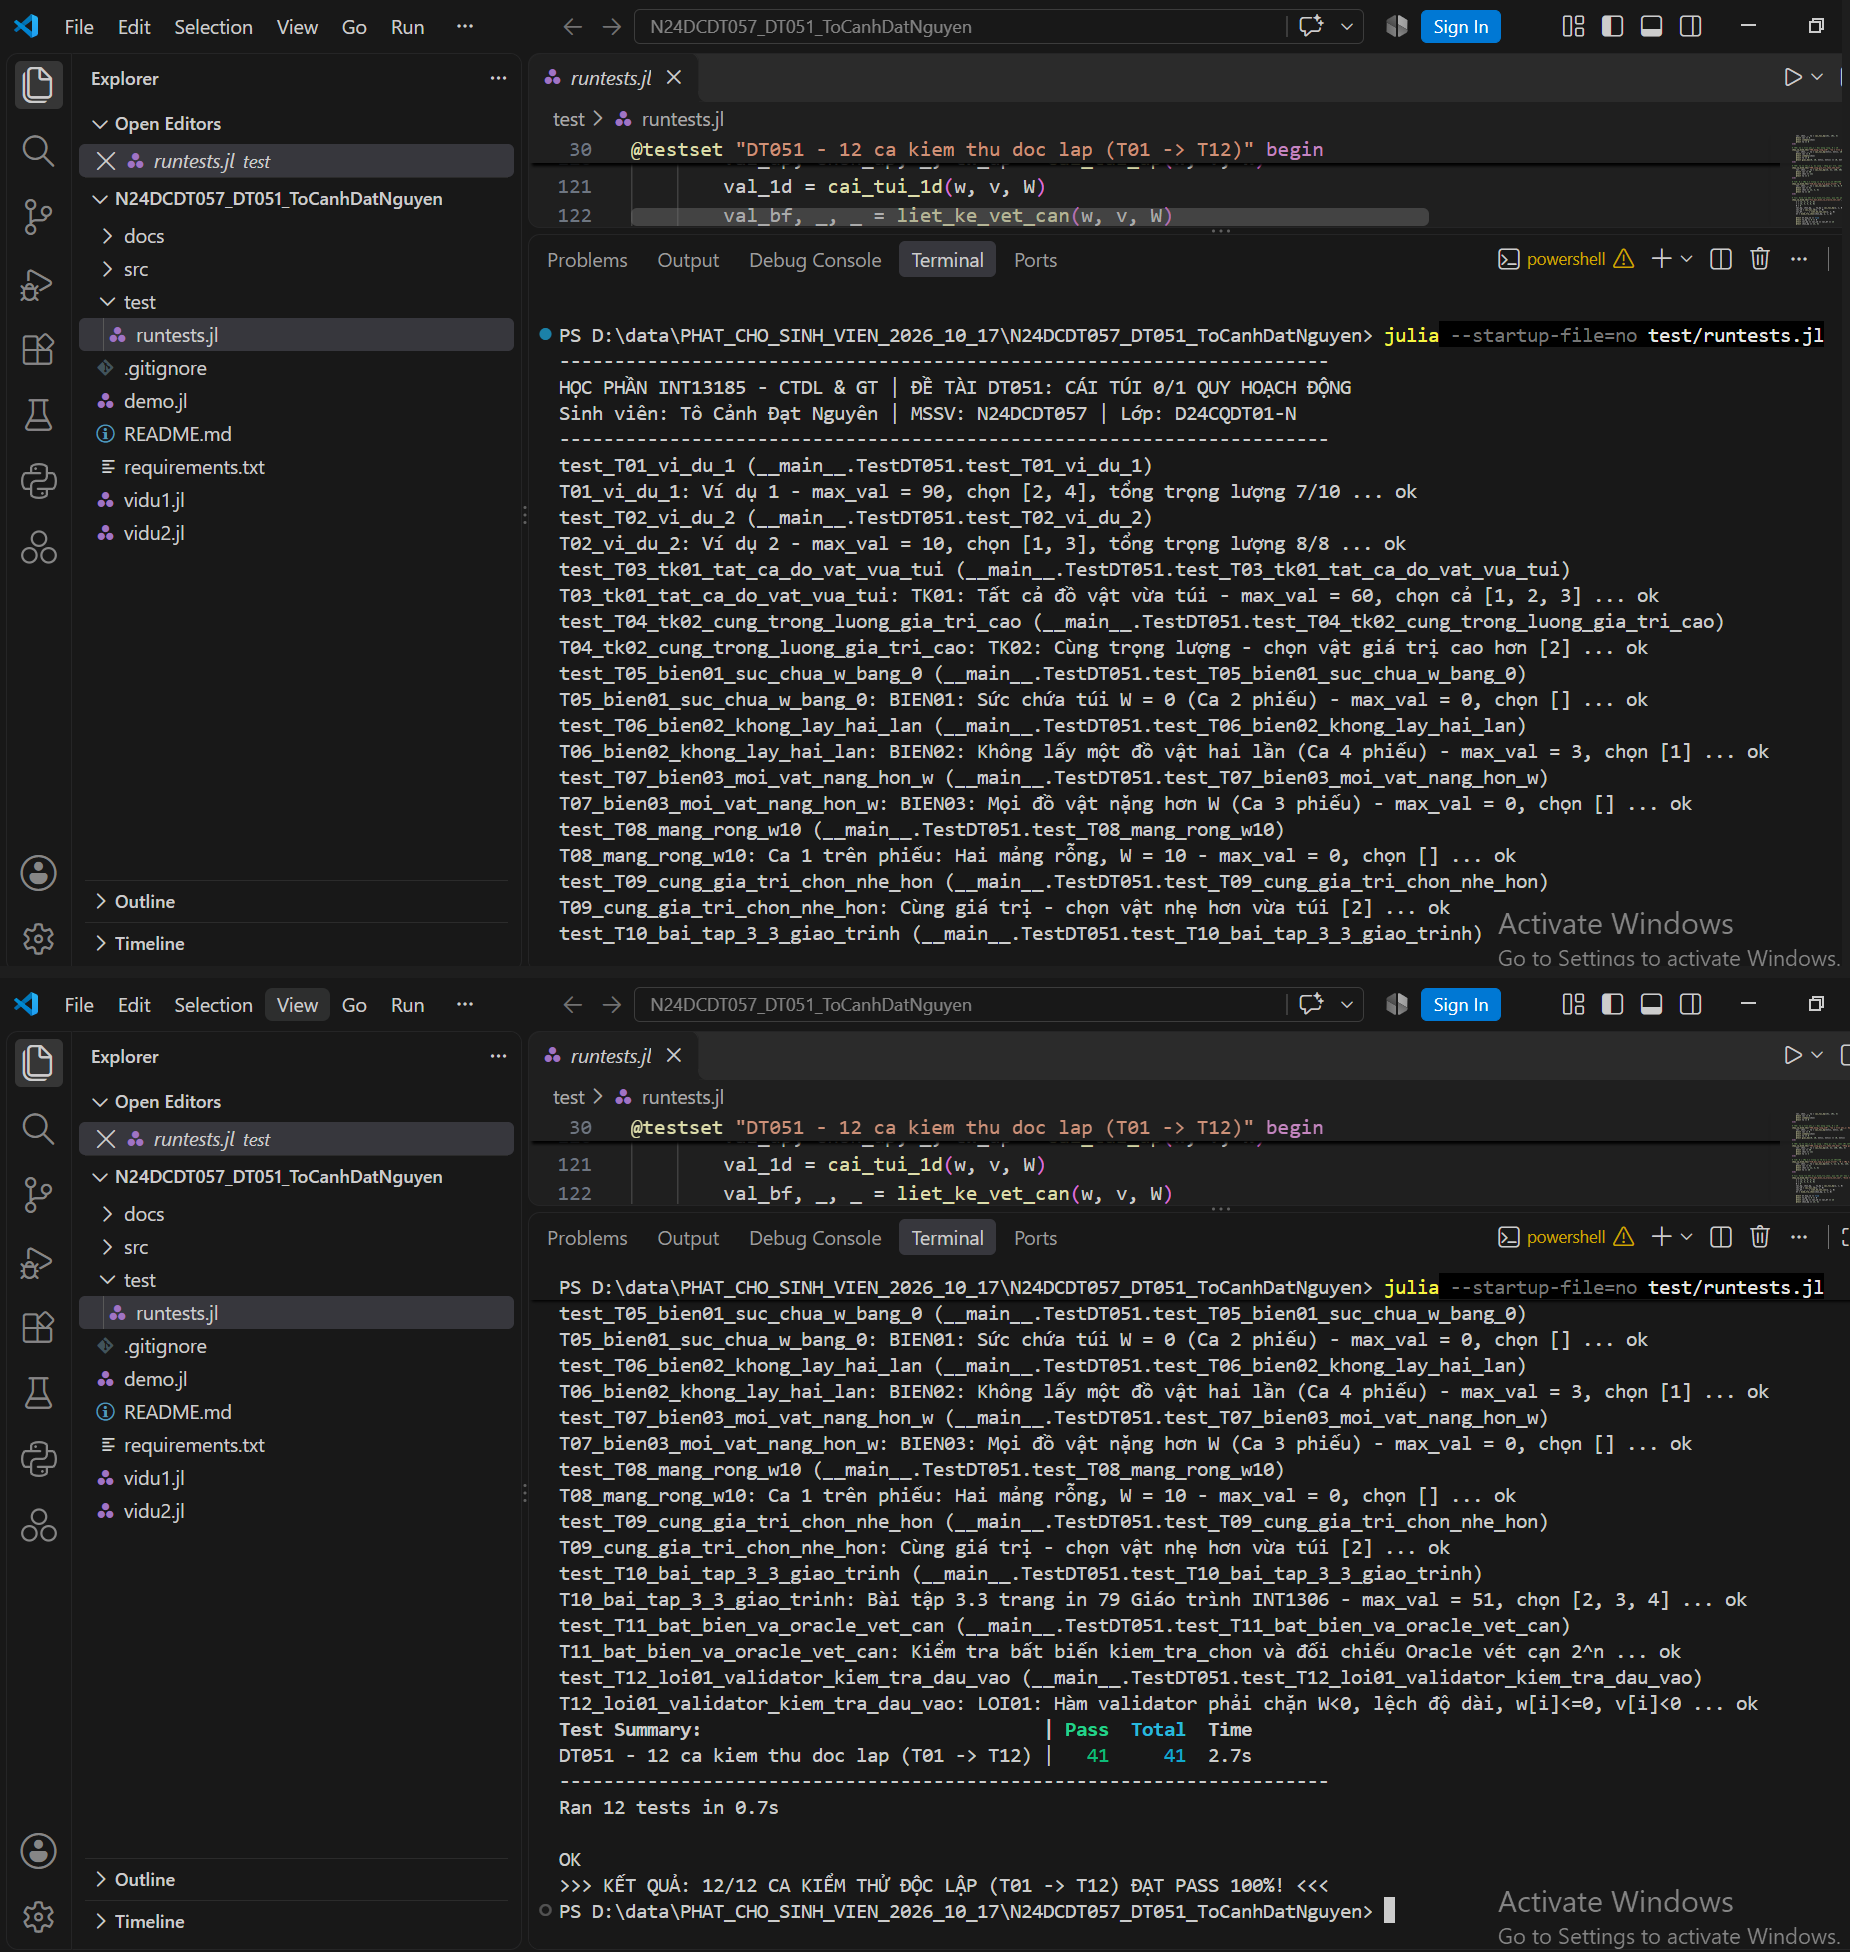
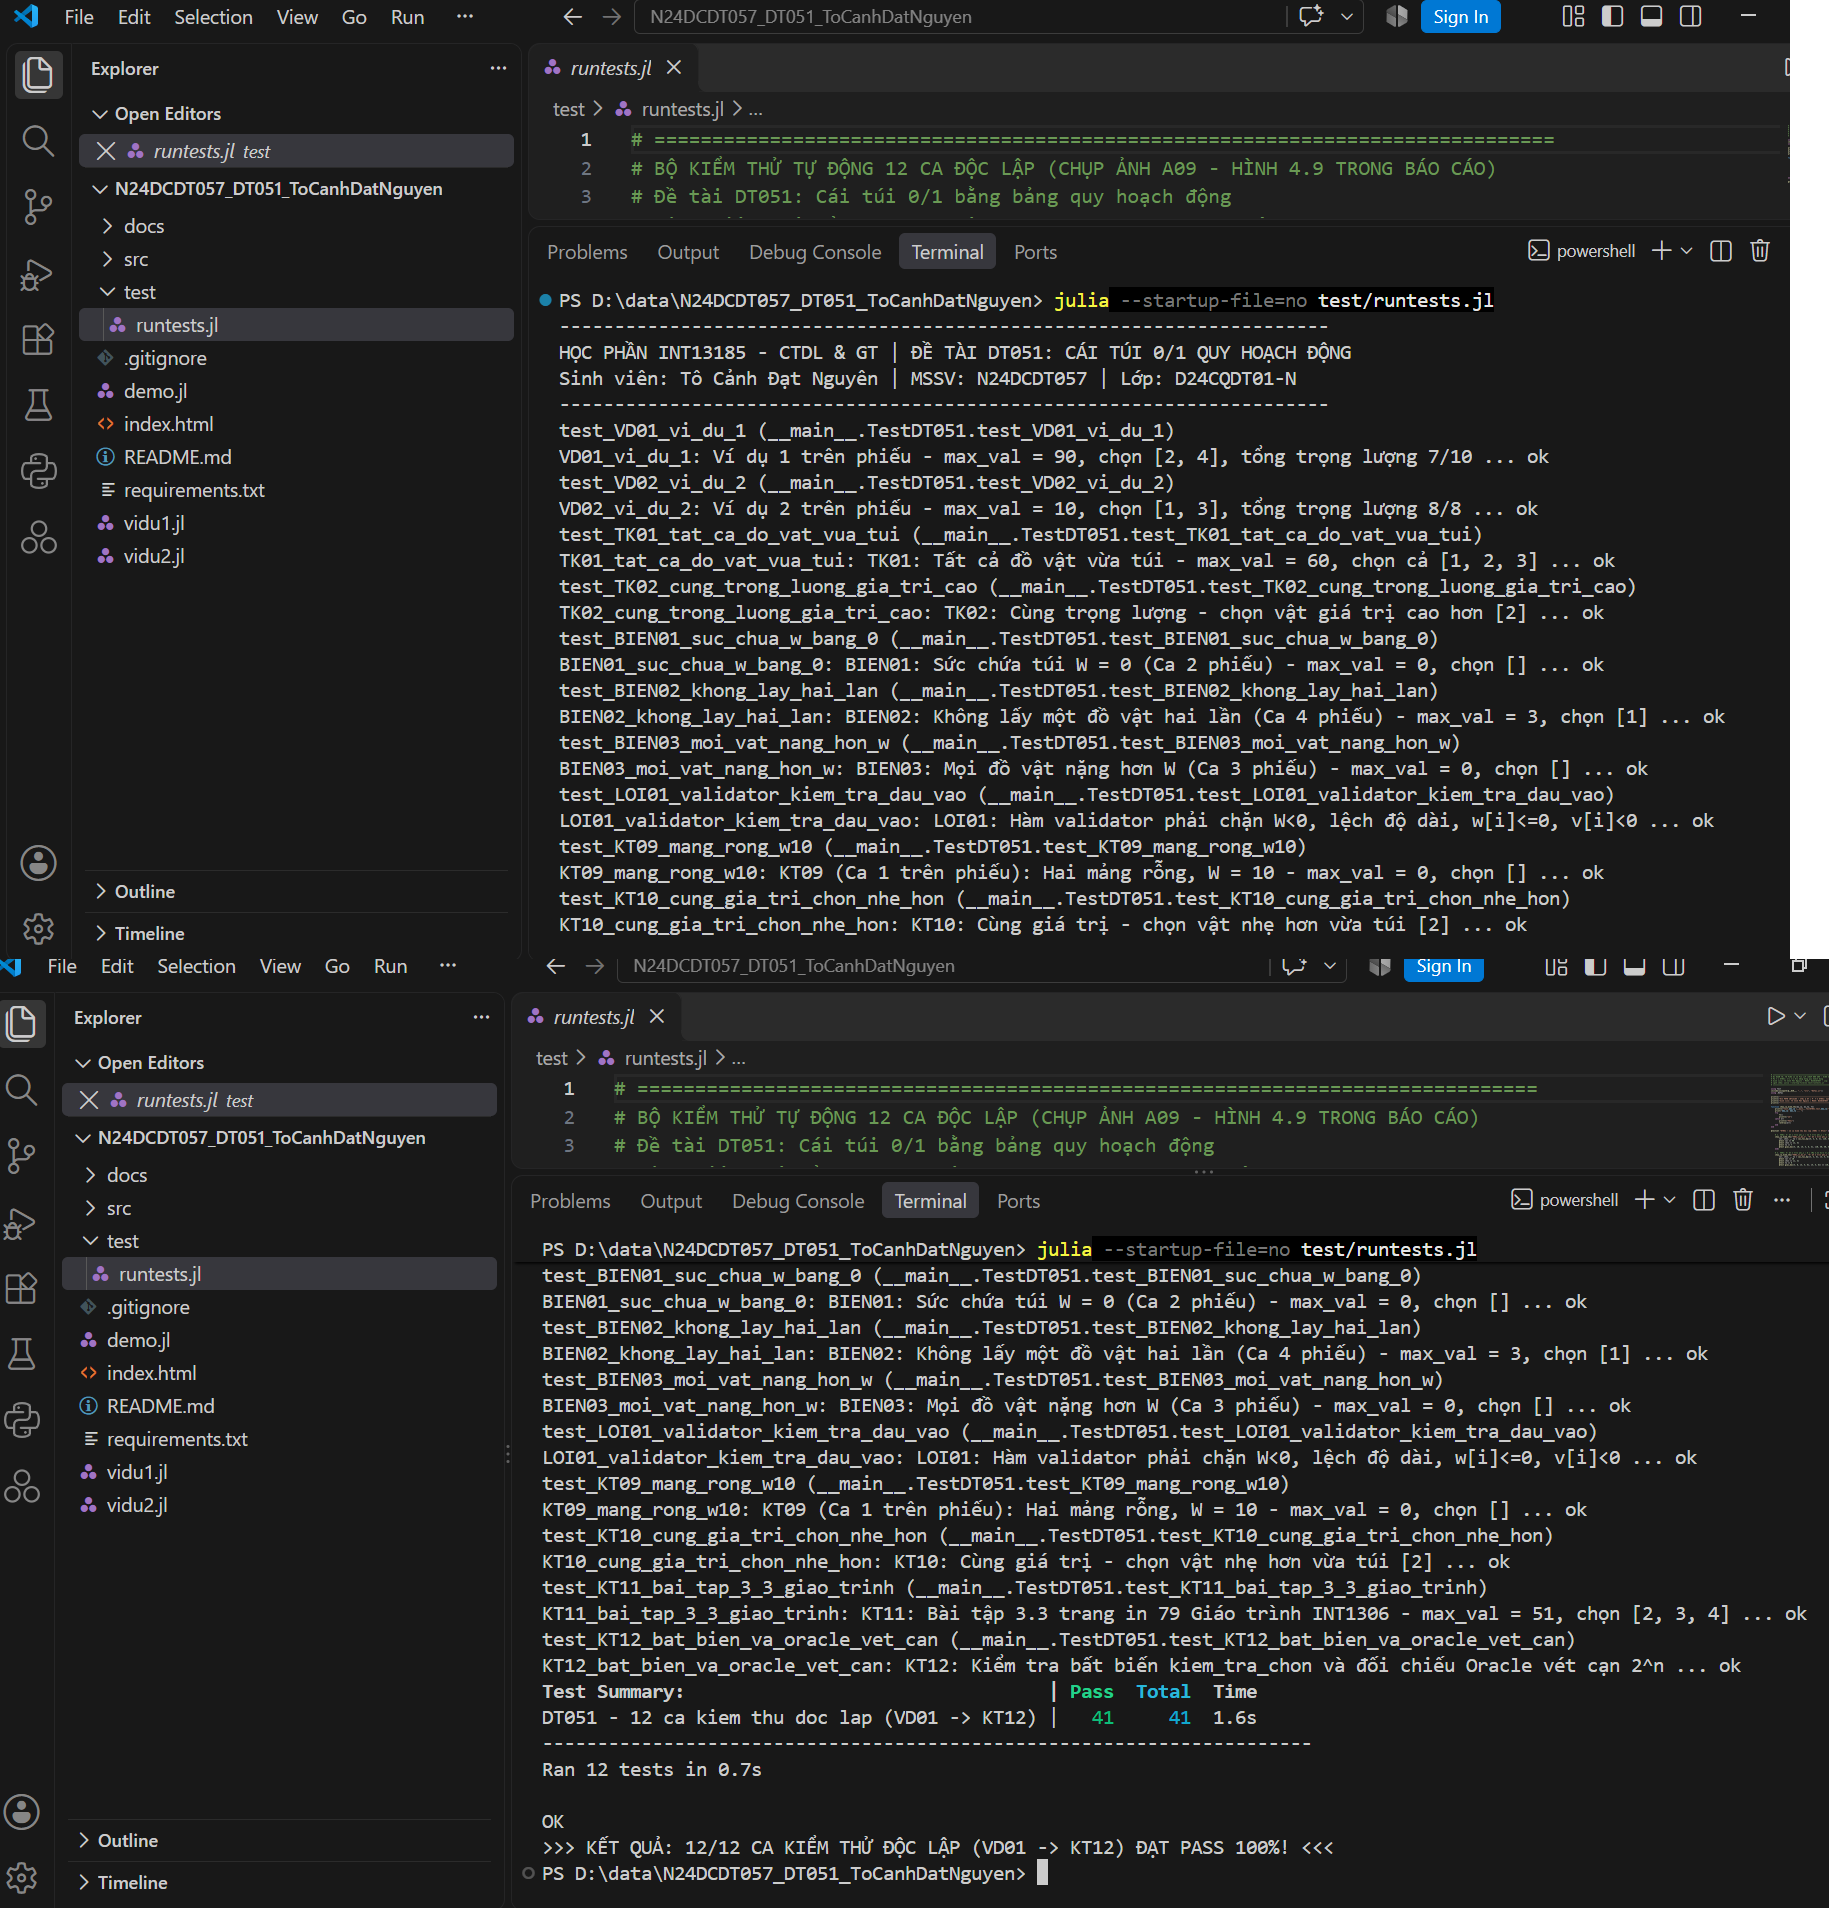
Cap nhat anh 09_tong_ket_kiem_thu.png va dong bo README (Commit S)

diff --git a/README.md b/README.md
@@ -16,7 +16,7 @@ Toàn bộ thuật toán quy hoạch động, truy vết, kiểm tra hợp đồ
 - Chương, mục, bài tập, trang in và trang PDF đúng đề: Chương 4, mục **4.3.2.2 Bài toán cái túi**; Ví dụ 4.8; Bài 4.3; Bài tập chương 4, câu 22 và 32; trang in 98–100, 103, 112; trang PDF 110–112, 115, 124.
 - URL GitHub thật: `https://github.com/tocanhdatnguyen2k06/CaiTui01QuyHoachDong`; SHA chạy C ghi trong báo cáo và tệp `N24DCDT057_DT051_ToCanhDatNguyen_ThongTinNop.txt` nộp rời.
 - Trang web mô phỏng trực quan online (GitHub Pages): [https://tocanhdatnguyen2k06.github.io/CaiTui01QuyHoachDong/](https://tocanhdatnguyen2k06.github.io/CaiTui01QuyHoachDong/).
-- Permalink tệp thuật toán tại C: `https://github.com/tocanhdatnguyen2k06/CaiTui01QuyHoachDong/blob/9cccb550b30662856418e6fef732f53f1a11aeec/src/DeTai.jl`; phiên bản Julia: **Julia 1.10+**.
+- Permalink tệp thuật toán tại C: `https://github.com/tocanhdatnguyen2k06/CaiTui01QuyHoachDong/blob/36adb23df7e2280645d9a159ebd852f3d5e89667/src/DeTai.jl`; phiên bản Julia: **Julia 1.10+**.
 
 ## Bắt đầu và chạy chương trình
 
@@ -30,12 +30,12 @@ julia --startup-file=no demo.jl
 julia --startup-file=no test/runtests.jl
 ```
 
-Chạy riêng từng ví dụ hoặc từng ca minh họa từ A01 đến A08:
+Chạy riêng từng ví dụ hoặc từng ca minh họa (VD01, VD02, TK01, TK02, BIEN01..03, LOI01):
 
 ```powershell
-julia --startup-file=no vidu1.jl          # Chạy riêng Ví dụ 1 trên phiếu (Ảnh A01 - Hình 4.1)
-julia --startup-file=no vidu2.jl          # Chạy riêng Ví dụ 2 trên phiếu (Ảnh A02 - Hình 4.2)
-julia --startup-file=no demo.jl --ca=1    # Thay 1 bằng 2..8 để chạy từng ca minh họa A01..A08
+julia --startup-file=no vidu1.jl          # Chạy riêng Ví dụ 1 trên phiếu (VD01 - Hình 4.1)
+julia --startup-file=no vidu2.jl          # Chạy riêng Ví dụ 2 trên phiếu (VD02 - Hình 4.2)
+julia --startup-file=no demo.jl --ca=1    # Thay 1 bằng 2..8 để chạy từng ca minh họa từ 1 đến 8
 julia --startup-file=no demo.jl --nhap    # Chế độ nhập dữ liệu trực tiếp từ bàn phím
 ```
 
@@ -60,11 +60,11 @@ N24DCDT057_DT051_ToCanhDatNguyen/
 ├── demo.jl                         # Chạy minh họa các ca (--ca=1..8) và nhập liệu bàn phím (--nhap)
 ├── README.md                       # Hướng dẫn chi tiết, căn cứ đề tài và cách chạy nghiệm thu
 ├── requirements.txt                # Khai báo môi trường và phiên bản (Julia >= 1.10)
-├── vidu1.jl                        # Kịch bản chạy riêng Ví dụ 1 trên phiếu (Ảnh A01 - Hình 4.1)
-├── vidu2.jl                        # Kịch bản chạy riêng Ví dụ 2 trên phiếu (Ảnh A02 - Hình 4.2)
+├── vidu1.jl                        # Kịch bản chạy riêng Ví dụ 1 trên phiếu (01_vi_du_1.png - Hình 4.1)
+├── vidu2.jl                        # Kịch bản chạy riêng Ví dụ 2 trên phiếu (02_vi_du_2.png - Hình 4.2)
 ├── docs/
 │   └── anh_ket_qua/
-│       └── README.md               # Quy cách đặt tên và danh mục 11 ảnh minh chứng cá nhân (A01-A11)
+│       └── README.md               # Quy cách đặt tên và danh mục 11 ảnh minh chứng cá nhân (01..11)
 ├── src/
 │   └── DeTai.jl                    # Thuật toán chính: cai_tui_bang, truy_vet_do, kiem_tra_dau_vao, v.v.
 └── test/
@@ -85,10 +85,10 @@ N24DCDT057_DT051_ToCanhDatNguyen/
 |---|---|
 | `src/DeTai.jl` | Kiểm tra đầu vào `kiem_tra_dau_vao`, lập bảng 2D `cai_tui_bang`, truy vết `truy_vet` / `truy_vet_do`, kiểm chứng nghiệm `kiem_tra_chon`, hàm chính `giai_bai` / `cai_tui_dp`, quy hoạch động 1 chiều `cai_tui_1d` và vét cạn đối chứng `liet_ke_vet_can` |
 | `demo.jl` | Chạy mặc định 2 ví dụ trên phiếu, 8 ca minh họa (`--ca=1` đến `--ca=8`) và chế độ nhập bàn phím (`--nhap`) |
-| `vidu1.jl` | Chạy riêng Ví dụ 1 trên phiếu (`n=4, W=10, w=[5,4,6,3], v=[10,40,30,50]`) phục vụ chụp Ảnh A01 |
-| `vidu2.jl` | Chạy riêng Ví dụ 2 trên phiếu (`n=3, W=8, w=[3,4,5], v=[4,5,6]`) phục vụ chụp Ảnh A02 |
+| `vidu1.jl` | Chạy riêng Ví dụ 1 trên phiếu (`n=4, W=10, w=[5,4,6,3], v=[10,40,30,50]`) phục vụ chụp `01_vi_du_1.png` |
+| `vidu2.jl` | Chạy riêng Ví dụ 2 trên phiếu (`n=3, W=8, w=[3,4,5], v=[4,5,6]`) phục vụ chụp `02_vi_du_2.png` |
 | `test/runtests.jl` | 12 ca kiểm thử độc lập có định danh (`VD01`, `VD02`, `TK01`, `TK02`, `BIEN01..03`, `LOI01`, `KT09..12`), tổng cộng 41 phép kiểm tra `@test` / `@test_throws` |
-| `docs/anh_ket_qua/` | Thư mục lưu trữ 11 ảnh minh chứng thực chạy cá nhân từ A01 đến A11 (`01_vi_du_1.png` đến `11_github_repo_commit.png`) |
+| `docs/anh_ket_qua/` | Thư mục lưu trữ 11 ảnh minh chứng thực chạy cá nhân (`01_vi_du_1.png` đến `11_github_repo_commit.png`) |
 
 Kết quả 8 ca trong `demo.jl`:
 - Demo 1 (`--ca=1`, Ví dụ 1 phiếu / Ca 5 phiếu): giá trị tối ưu `90`, chọn `[2, 4]`, trọng lượng `7 / 10`.
